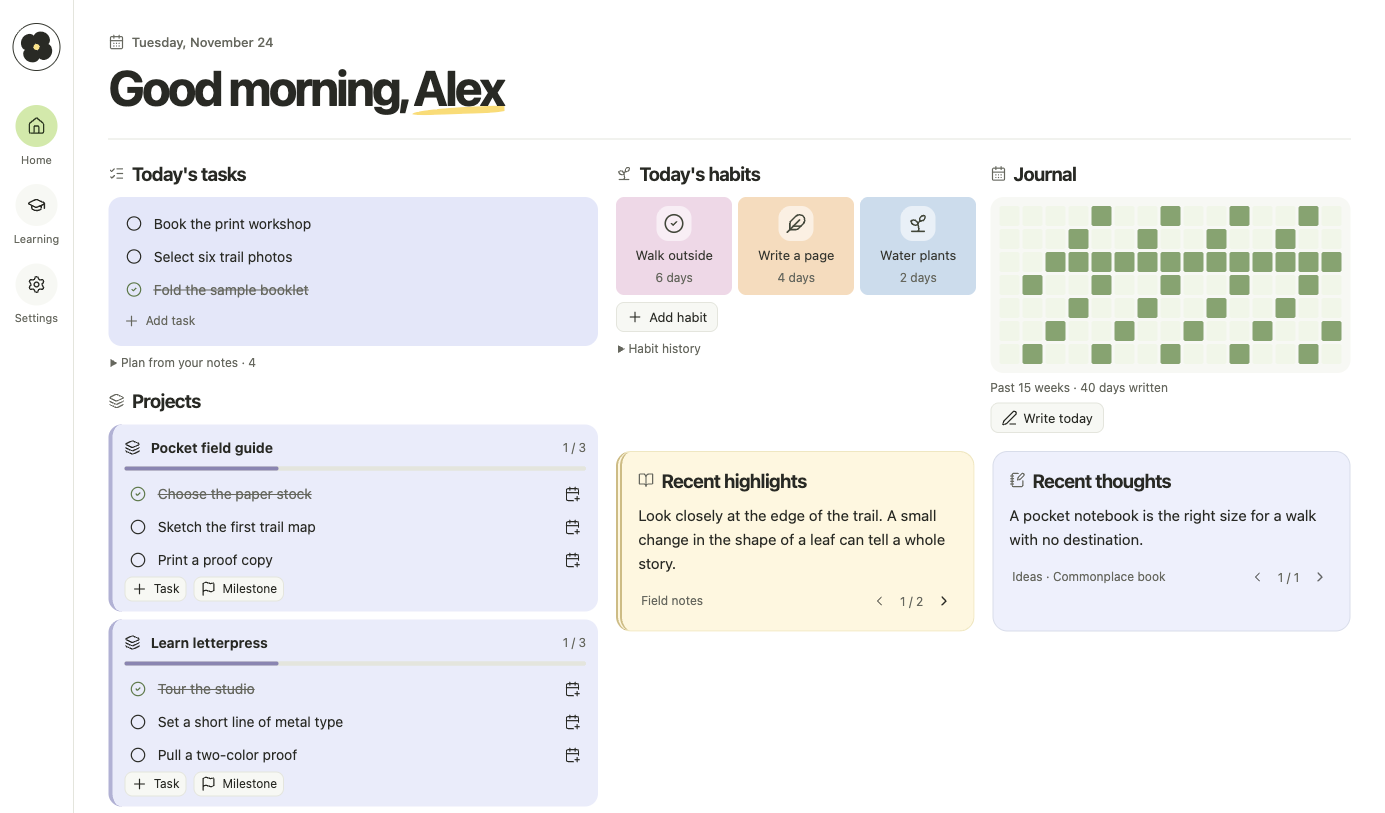
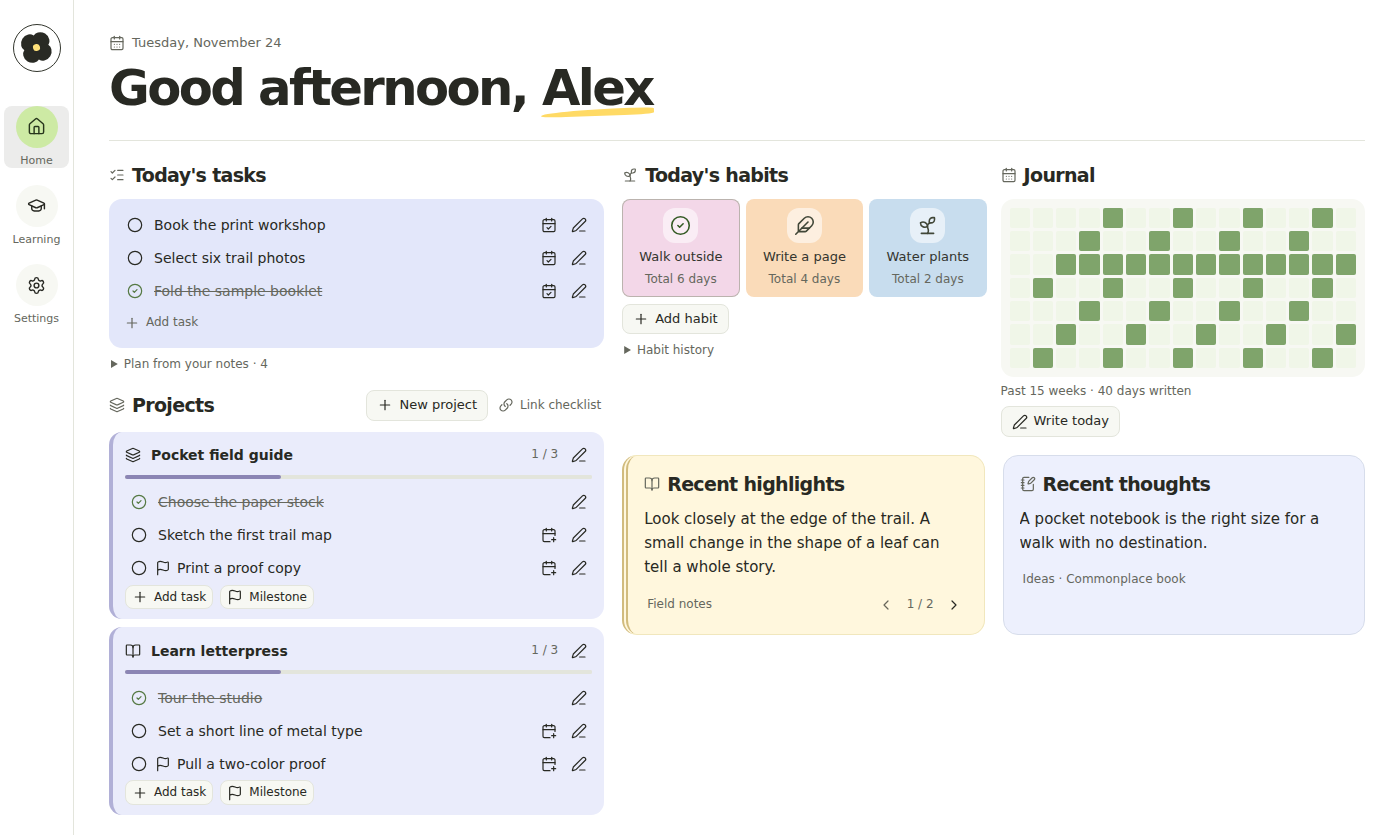
Show the verified English and Chinese dashboards in the community listing

diff --git a/README.zh-CN.md b/README.zh-CN.md
@@ -4,7 +4,7 @@
 
 [English](README.md)
 
-![用虚构项目、习惯和阅读笔记填充的首页](docs/dashboard.png)
+![用虚构项目、习惯和阅读笔记填充的首页](docs/dashboard-zh.png)
 
 ## 安装与更新
 
